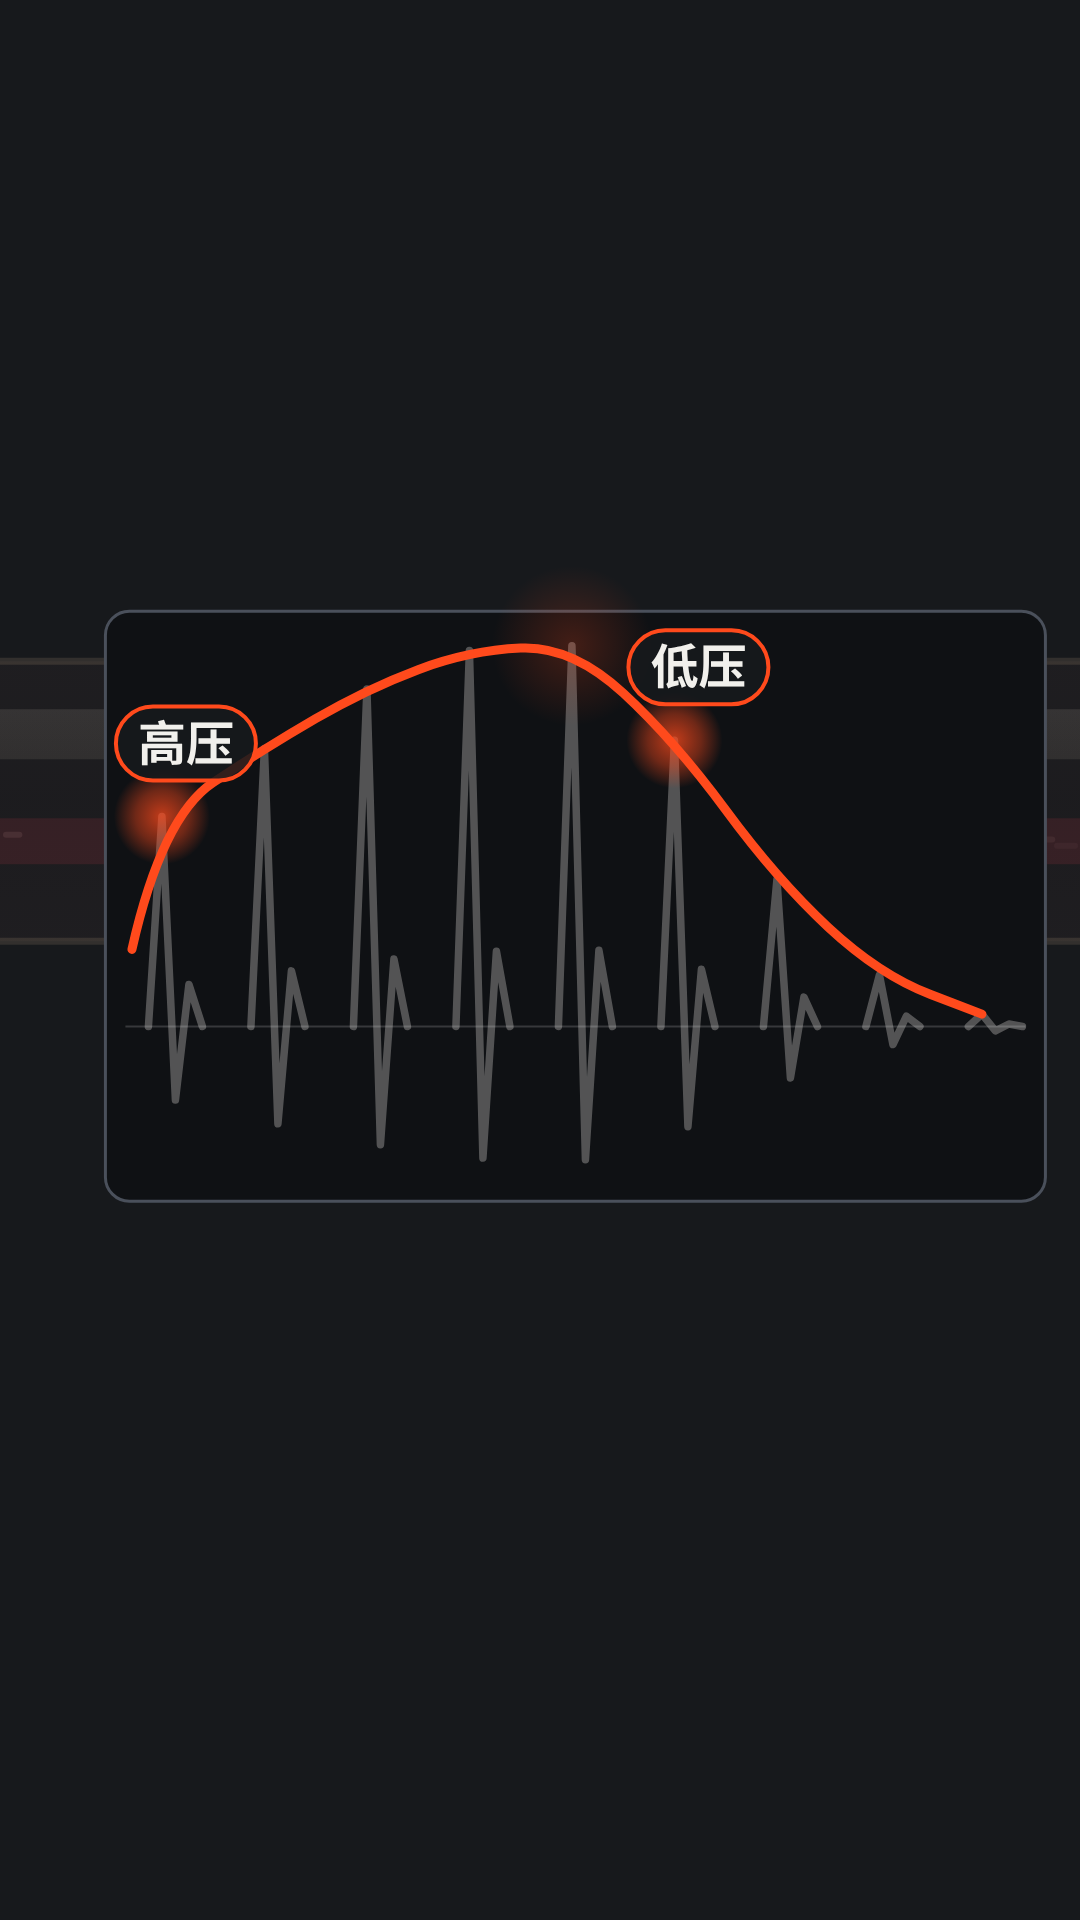
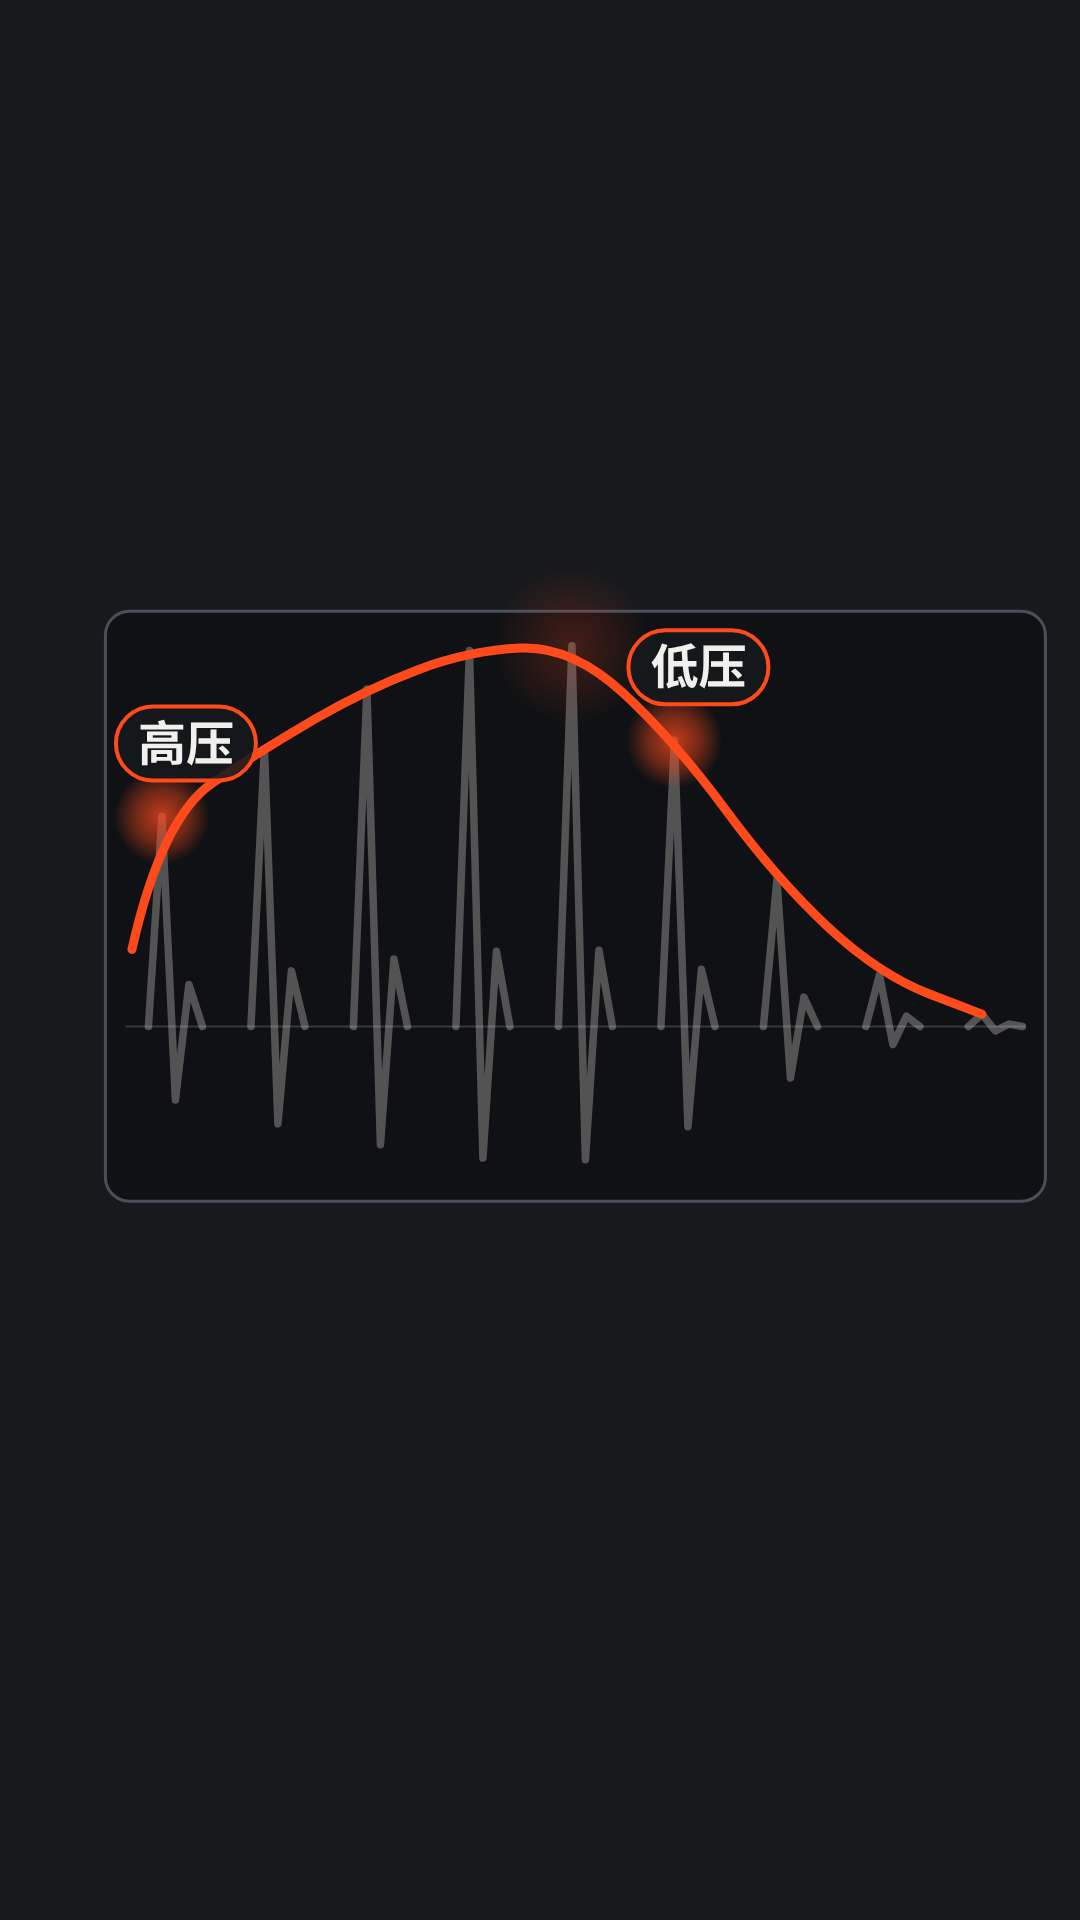
为什么 EP.09：按节点 ③ 审核改备选标题（≤ 20 字）、文案措辞、封面引线和小圆
Claude-Session: https://claude.ai/code/session_01Q4wLoSBjpVCCpyGECUJsnY

Changed region(s): [[0.0, 0.3438, 0.0917, 0.4688], [0.9472, 0.3438, 1.0, 0.4688]]

diff --git a/templates/weishenme/covers/ep09-xiaohongshu.html b/templates/weishenme/covers/ep09-xiaohongshu.html
@@ -9,7 +9,7 @@
   .ser i { font-style: normal; color: #FF4A1C; font-weight: 700; margin-left: 14px; }
   .t { position: absolute; left: 72px; font: 124px "Smiley"; color: #141414; white-space: nowrap; line-height: 1; }
   .t b { font-weight: normal; color: #FF4A1C; }
-  .inset { position: absolute; left: 570px; top: 960px; width: 380px; height: 380px; border-radius: 50%;
+  .inset { position: absolute; left: 370px; top: 932px; width: 380px; height: 380px; border-radius: 50%;
     background: #17191C url("art/ep09-inset.png") no-repeat; background-size: 418.7755102040816px 744.4897959183673px; background-position: -19.387755102040817px -160.91836734693877px;
     box-shadow: 0 0 0 10px #141414, 0 24px 50px rgba(20,20,20,0.28); }
   svg { position: absolute; left: 0; top: 0; }
@@ -17,12 +17,12 @@
     background: #ECEBE6 url("art/.png") no-repeat; background-size: 0px 0px; background-position: 0px 0px;
     box-shadow: 0 0 0 8px #141414, 0 18px 40px rgba(20,20,20,0.25); }
   .itag2 { position: absolute; left: 0px; top: 0px; transform: translateX(-50%); font: 700 38px "NotoSC"; color: #F1F0EC; background: #141414; padding: 6px 16px 8px; border-radius: 24px; white-space: nowrap; }
-  .itag { position: absolute; left: 760px; top: 1362px; transform: translateX(-50%); font: 700 40px "NotoSC"; color: #F1F0EC; background: #141414; padding: 6px 18px 8px; border-radius: 26px; white-space: nowrap; }
+  .itag { position: absolute; left: 560px; top: 1334px; transform: translateX(-50%); font: 700 40px "NotoSC"; color: #F1F0EC; background: #141414; padding: 6px 18px 8px; border-radius: 26px; white-space: nowrap; }
   </style></head><body><div id="cv">
   <div class="hero"></div>
   <svg width="1080" height="1440">
-    <line x1="718" y1="754" x2="739.3280638453631" y2="955.0931733991376" stroke="#141414" stroke-width="6" stroke-linecap="round"/>
-    <circle cx="718" cy="754" r="16" fill="none" stroke="#FF4A1C" stroke-width="7"/></svg>
+    <line x1="212" y1="859" x2="403.6324136835825" y2="1003.825645973512" stroke="#141414" stroke-width="6" stroke-linecap="round"/>
+    <circle cx="212" cy="859" r="16" fill="none" stroke="#FF4A1C" stroke-width="7"/></svg>
   <div class="wash"></div>
   <div class="ser">你每天都在用，但你不知道它怎么工作<i>EP.09</i></div>
   <div class="t" style="top:145.36px">血压量了两次，</div>

diff --git a/episodes/weishenme/09-xueyaji/publish.md b/episodes/weishenme/09-xueyaji/publish.md
@@ -13,7 +13,7 @@
 **描述**
 
 ```text
-血压量了两次，一次 138、一次 126，该信哪一次？电子血压计不听声音，它靠袖带里的空气“感觉”脉搏，高压低压是算出来的。哪一次都别单信：坐好歇 5 分钟、胳膊和心脏一样高，量两次取平均。
+血压量了两次，一次 138、一次 126，该信哪一次？家用电子血压计不听声音，它靠袖带里的空气“感觉”脉搏，高压低压是算出来的。哪一次都别单信：坐好歇 5 分钟、胳膊和心脏一样高，量两次取平均。
 #为什么系列 #电子血压计 #血压计准不准 #量血压 #家庭血压测量 #血压测量方法 #高血压 #涨知识 #科普
 ```
 
@@ -31,7 +31,7 @@
 备选标题
 
 ```text
-电子血压计准不准？量两次差十几，问题可能不在机器
+量两次差十几，是电子血压计不准吗？
 ```
 
 **正文**
@@ -53,13 +53,13 @@
 
 再补两条片子里没讲的：
 · 第一次用，两只胳膊都量一下，以后固定量读数高的那只；
-· 选经过临床验证的上臂式血压计，袖带大小要合胳膊；有房颤等心律不齐的，读数可能不准，拿给医生看。
+· 选经过临床验证的上臂式血压计，袖带大小要合胳膊；有房颤的，读数可能不准，最好请医生帮着看怎么量。
 
 血压高不高、要不要用药，听医生的；这条只讲血压计怎么工作、怎么量更准。
 
 这是「你每天都在用，但你不知道它怎么工作」第 9 集。你还想知道哪个东西是怎么工作的？评论区告诉我。
 
-画面说明：血管、袖带、波形和高压低压的位置都是示意。
+画面说明：读数 138 / 126 是示意数字；血管、袖带、波形和高压低压的位置都是示意。
 
 #电子血压计 #血压计准不准 #家庭血压测量 #血压测量方法 #量血压 #高血压 #科普 #为什么系列
 ```
@@ -77,7 +77,9 @@
 ```
 
 ## 备注
-- 搜索关键词：电子血压计、血压计准不准、家庭血压测量、血压测量方法、高血压。两个平台的话题都五个全覆盖；「血压」在两个标题里，「电子血压计」「血压计准不准」在小红书备选标题和正文里。
+- 搜索关键词：电子血压计、血压计准不准、家庭血压测量、血压测量方法、高血压。两个平台的话题都五个全覆盖；「血压」在两个标题里；「电子血压计」在抖音描述、小红书备选标题和正文里，「血压计准不准」在两个平台的话题里。
 - 不点名品牌、不推荐具体型号、不替人看病（最后一句「听医生的」）。
+- 片子删掉了「很多时候，它没错」这一拍（用户：片中这一拍没有意义、拖慢进入主题）；正文里保留了这个意思（「很多时候，问题不在机器」），用来接「误解 → 翻转」。不想要的话删掉这一句即可。
+- 两个平台都用全屏版：抖音底部的作者名 / 描述比小红书高，发布前在抖音上传预览里看一眼底部（约 y 1300–1450 的读数框、清单卡下几行）有没有被盖住。
 - 依据：听诊法 / 示波法、压力传感器（FACTS #1）；压扁、挤过去、顶一下（#2）；先强后弱（#3）；高压低压按比例算、各家算法不同（#4）；「几十秒」（#5，片中「半分钟」是估算，正文改说「几十秒」）；第一次往往偏高、静坐 5 分钟、别说话（#6）；胳膊高度（#7）；「很多时候问题不在机器」、选验证过的上臂式、袖带尺寸、房颤（#8）；两次间隔 1–2 分钟取平均、早晚各量看一周（#9）；左右手（#10）。
 - 事实来源仍有〔待〕：#1、#2、#5、#6、#9、#10 等原文网站（ncbi、frontiersin、news.cn、bihsoc）在本环境打不开，只核到摘要。正文用词按 FACTS 的分寸写（「往往」「几十秒」「可能不准」），没有写具体 mmHg 数字。

diff --git a/episodes/weishenme/09-xueyaji/notes.md b/episodes/weishenme/09-xueyaji/notes.md
@@ -72,3 +72,4 @@
 ## 2026-11-19 用户确认视频（v1.4.1）
 - 用户：「可以没问题了，直接出小红书的全屏版和封面吧，我发现抖音的那个画面也是用小红书的正合适」＝ 视频定稿；两个平台都用小红书全屏版（1080×2340）和 3:4 小红书封面。
 - 交付包：`cover-xiaohongshu.png`（`templates/weishenme/covers` ep09：主图是片头 2.5 秒「第一次 138 | 第二次 126」用更远的镜头重渲；小圆是 28.9 秒的山图，标「高压低压是算出来的」；标题「血压量了两次，/ 该信[哪一次]？」）；`out/ep09-xueyaji-xhs.mp4`（顶部 24 行模糊拉伸 420 px）；`publish.md`。
+- 审核节点 ③：不通过 1 条（小红书备选标题 24 字 > 20 字上限）→ 改为「量两次差十几，是电子血压计不准吗？」（17 字）。顺带按建议改：抖音描述「家用电子血压计」；房颤一句改「最好请医生帮着看怎么量」；画面说明补「138 / 126 是示意数字」；备注更正关键词位置、加「正文保留了『很多时候问题不在机器』」和「抖音发布前看底部」；封面锚点改到袖带（引线不再扎进手）、小圆去掉边上的旧剖面残影、标签上移。
